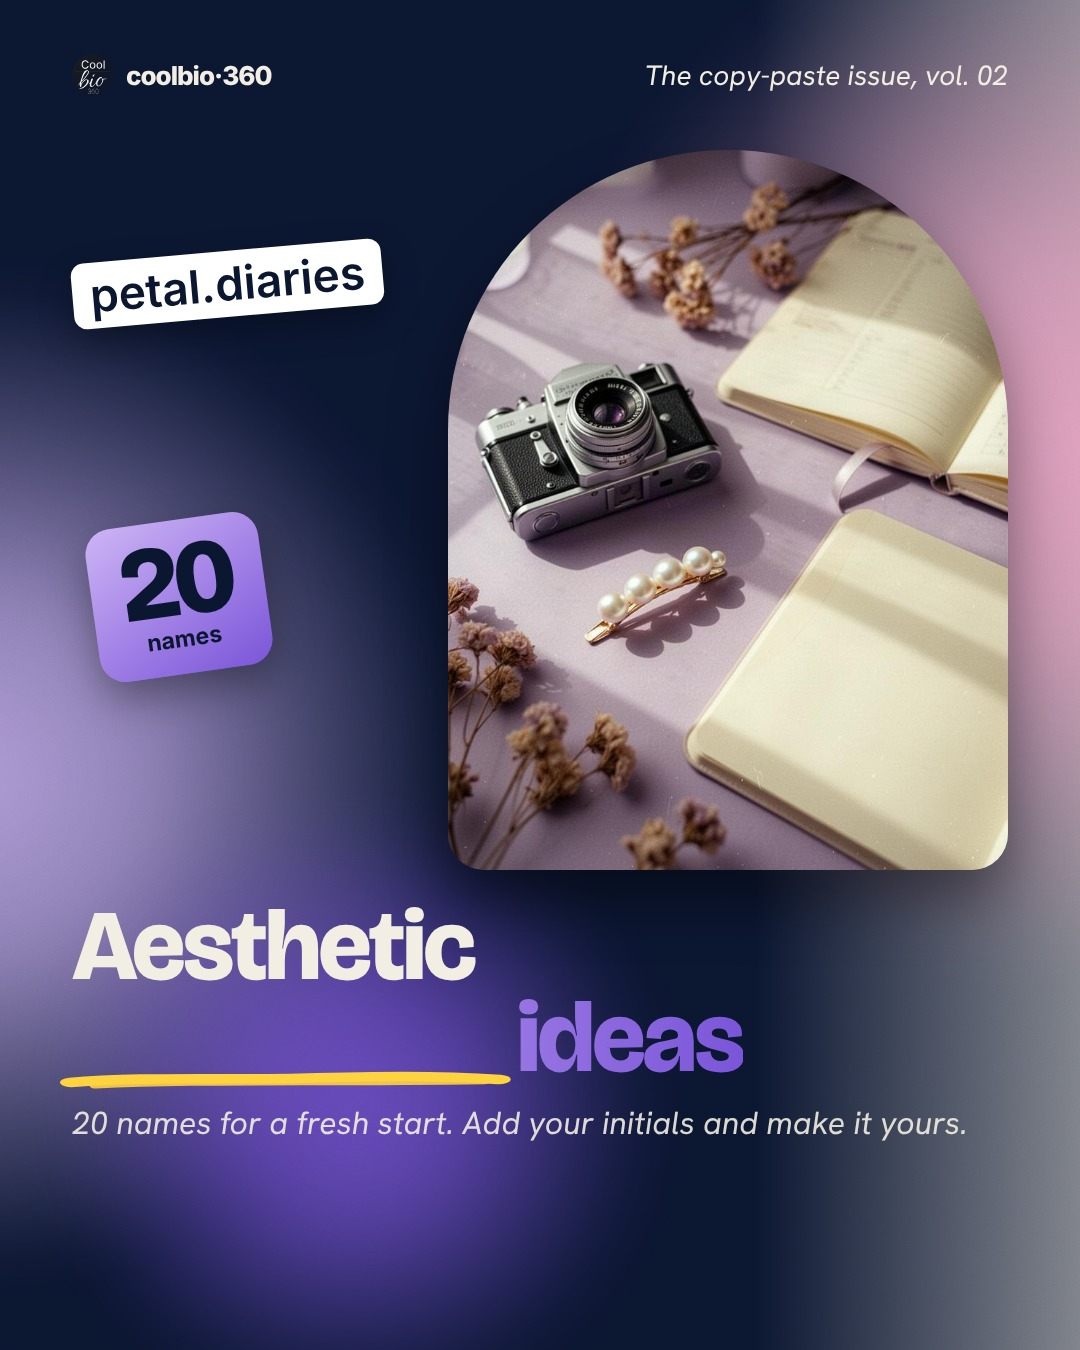
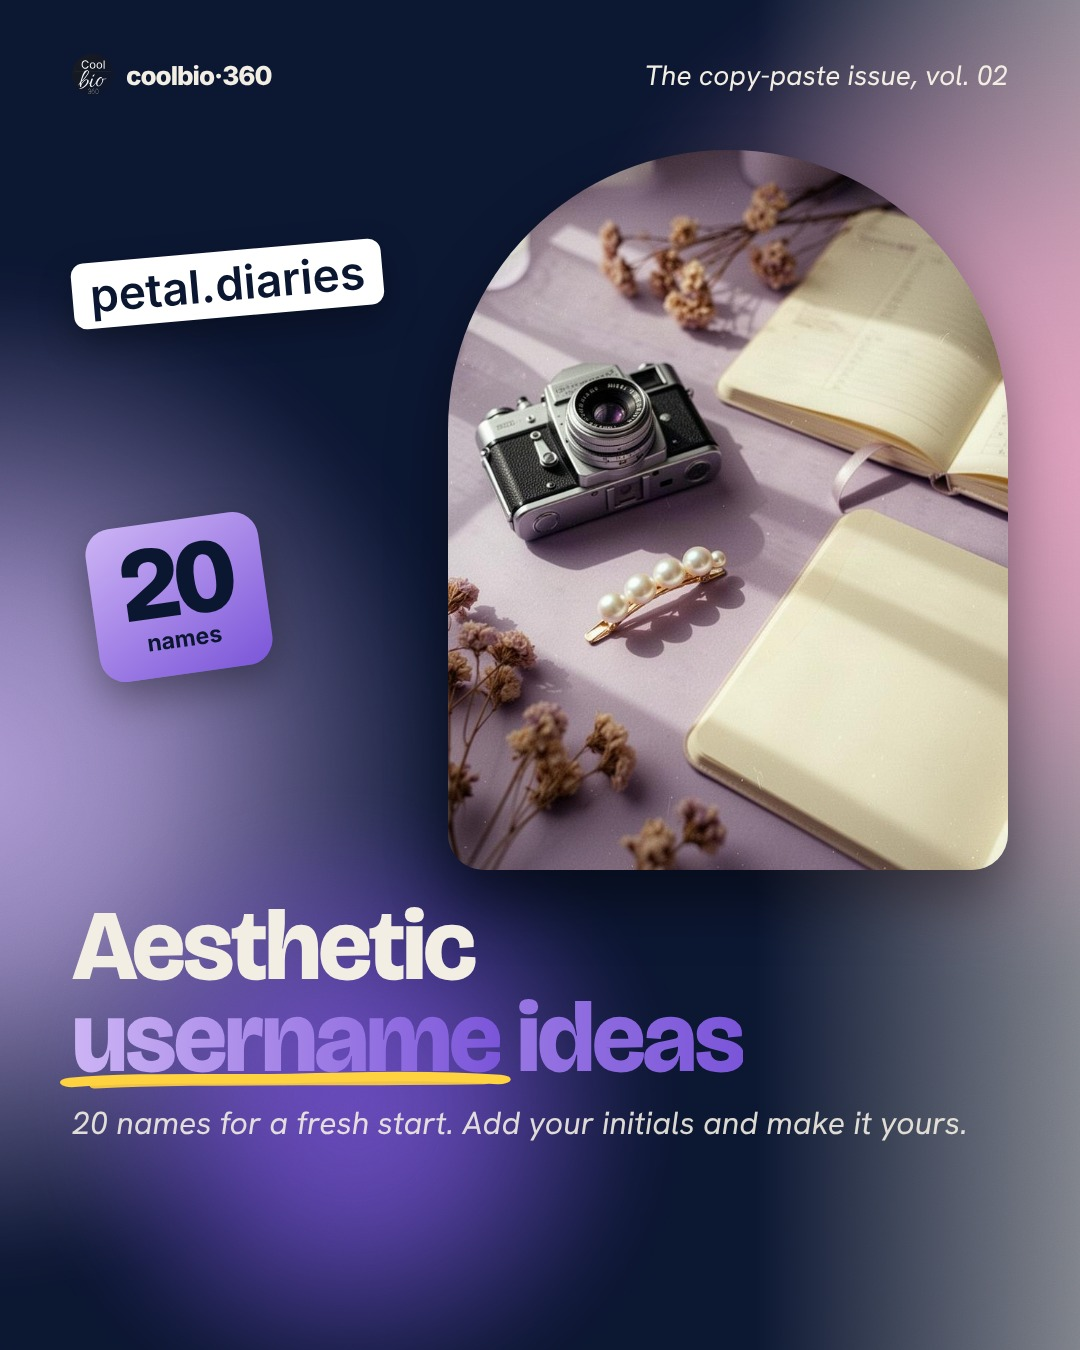
Fix parola sottolineata dentro il titolo sfumato
Claude-Session: https://claude.ai/code/session_01JL8RT6ZiLuziuRoxLPPpLq

Changed region(s): [[0.0611, 0.7467, 0.4583, 0.8089]]

diff --git a/tools/packs/gen_pack7.py b/tools/packs/gen_pack7.py
@@ -15,8 +15,8 @@ def num(k,size,grad):
     if '170deg' in grad and len(cols)>1: col=cols[-1]
     return f'<span class="n" style="font-size:{int(size*.95)}px;line-height:.82;color:{col};display:inline-block">{k}</span>'
 V.num=num; L5.num=num
-def under(word,col=GOLD):
-    return f'<span style="position:relative;display:inline-block">{word}<svg viewBox="0 0 300 40" preserveAspectRatio="none" style="position:absolute;left:-2%;bottom:-0.08em;width:104%;height:0.24em;overflow:visible"><path d="M6 24 C 50 14, 110 20, 160 17 S 250 12, 294 19" fill="none" stroke="{col}" stroke-width="16" stroke-linecap="round"/><path d="M22 30 C 90 22, 170 27, 284 23" fill="none" stroke="{col}" stroke-width="8" stroke-linecap="round" opacity=".9"/></svg></span>'
+def under(word,col=GOLD,ws=''):
+    return f'<span style="position:relative;display:inline-block"><span style="{ws}">{word}</span><svg viewBox="0 0 300 40" preserveAspectRatio="none" style="position:absolute;left:-2%;bottom:-0.08em;width:104%;height:0.24em;overflow:visible"><path d="M6 24 C 50 14, 110 20, 160 17 S 250 12, 294 19" fill="none" stroke="{col}" stroke-width="16" stroke-linecap="round"/><path d="M22 30 C 90 22, 170 27, 284 23" fill="none" stroke="{col}" stroke-width="8" stroke-linecap="round" opacity=".9"/></svg></span>'
 def finish(h,p):
     h=h.replace('</head>',BRIC+f'<style>{CSS}</style></head>',1)
     # seconda riga del titolo: colore pieno + sottolineatura oro sulla prima parola
@@ -24,7 +24,10 @@ def finish(h,p):
     if k>0:
         e=h.find('</h1>',k); seg=h[k:e]; w=E(p['uw'])
         j=seg.find('>'+w) if seg.find('>'+w)>=0 else seg.find(' '+w)
-        if j>=0: j+=1; seg=seg[:j]+under(w)+seg[j+len(w):]
+        if j>=0:
+            j+=1; pre=seg[:j]; ws=''
+            if pre.rfind('background-clip:text')>pre.rfind('</span>'): ws=f'background:linear-gradient(90deg,{p["accent"]},{p["A2"]});-webkit-background-clip:text;background-clip:text;color:transparent'
+            seg=pre+under(w,GOLD,ws)+seg[j+len(w):]
         h=h[:k]+seg+h[e:]
     return h
 def cover_emoji(p,n,img):
